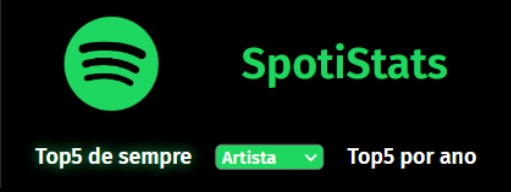
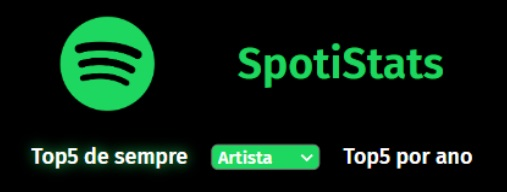
ajust positions of elements

diff --git a/pages/Home/HomePage.tsx b/pages/Home/HomePage.tsx
@@ -3,12 +3,12 @@ import styles from "./HomePage.module.css"
 import { SocialMedia } from "@/components/socialMedia/SocialMedia"
 import { Cards } from "@/components/cards/cards"
 import { NavBar } from "@/components/navbar/NavBar"
-import {useState} from "react"
+import { useState } from "react"
 
 export default function HomePage() {
     const [animeText, setAnimeText] = useState(0)
 
-    function handleClick(value: number){
+    function handleClick(value: number) {
         setAnimeText(value)
     }
 
@@ -36,12 +36,10 @@ export default function HomePage() {
                 />
             </header>
             <nav className={styles.navbar}>
-                <NavBar animeText={animeText} handleClick={handleClick}/>
+                <NavBar animeText={animeText} handleClick={handleClick} />
             </nav>
             <div className={styles.body}>
-                <div className={styles.socialmedia}>
-                    <SocialMedia />
-                </div>
+                <SocialMedia />
                 <div className={styles.cards}>
                     {animeText === 2 && <Cards />}
                 </div>

diff --git a/pages/Home/HomePage.module.css b/pages/Home/HomePage.module.css
@@ -4,7 +4,7 @@
 
 .headerMorning{
     width: 100%;
-    height: 30%;
+    height: 40%;
     background-image: linear-gradient(190deg, yellow , rgb(0, 140, 255) , black 40%);
     display: flex;
     justify-content: center;
@@ -14,7 +14,7 @@
 .headerAfternoon{
     padding: 1rem;
     width: 100%;
-    height: 30%;
+    height: 40%;
     background-image: linear-gradient(190deg, rgb(195, 179, 3) , darkblue , black 40%);
     display: flex;
     justify-content: center;
@@ -23,7 +23,7 @@
 
 .headerEvening{
     width: 100%;
-    height: 30%;
+    height: 40%;
     background-image: linear-gradient(190deg, purple , rgb(50, 0, 50) , black 40%);
     display: flex;
     justify-content: center;
@@ -32,7 +32,7 @@
 
 .headerNight{
     width: 100%;
-    height: 30%;
+    height: 40%;
     background-image: linear-gradient(190deg, darkblue , rgb(73, 1, 73) , black 40%);
     display: flex;
     justify-content: center;
@@ -56,5 +56,9 @@
 }
 
 .socialmedia{
-    width: 10%;
+    justify-self: flex-start;
+}
+
+.cards {
+    width: 100%;
 }

diff --git a/components/cards/cards.module.css b/components/cards/cards.module.css
@@ -1,8 +1,9 @@
 .container{
-    width: 100%;
     animation: show 500ms ease-in;
     display: flex;
+    justify-content: center;
     flex-wrap: wrap;
+    gap: 1rem;
 }
 
 @keyframes show {
@@ -18,15 +19,17 @@
 .content{
     border: 2px solid white;
     border-radius: 10px;
-    width: 50%;
+    width: 40%;
     display: flex;
     flex-direction: column;
     align-items: center;
+    justify-content: center;
     overflow: hidden;
     transition: 500ms;
 }
 
 .link{
+    width: 100%;
     text-align: center;
     text-decoration: none;
     color: black;

diff --git a/components/socialMedia/SocialMedia.module.css b/components/socialMedia/SocialMedia.module.css
@@ -1,11 +1,13 @@
 .container{
- 
     gap: 1rem;
     color: white;
     display: flex;
     flex-direction: column;
     align-items: center;
     justify-content: center;
+    align-self: flex-start;
+    justify-self: flex-start;
+    
 }
 
 .content {
@@ -13,6 +15,13 @@
     flex-direction: column;
     align-items: center;
     justify-content: center;
+    transition: 500ms;
+}
+
+.content:hover {
+    transition: 500ms;
+    text-shadow: 0 0 10px white;
+    transform: translateY(-10px);
 }
 
 .imgDiv {
